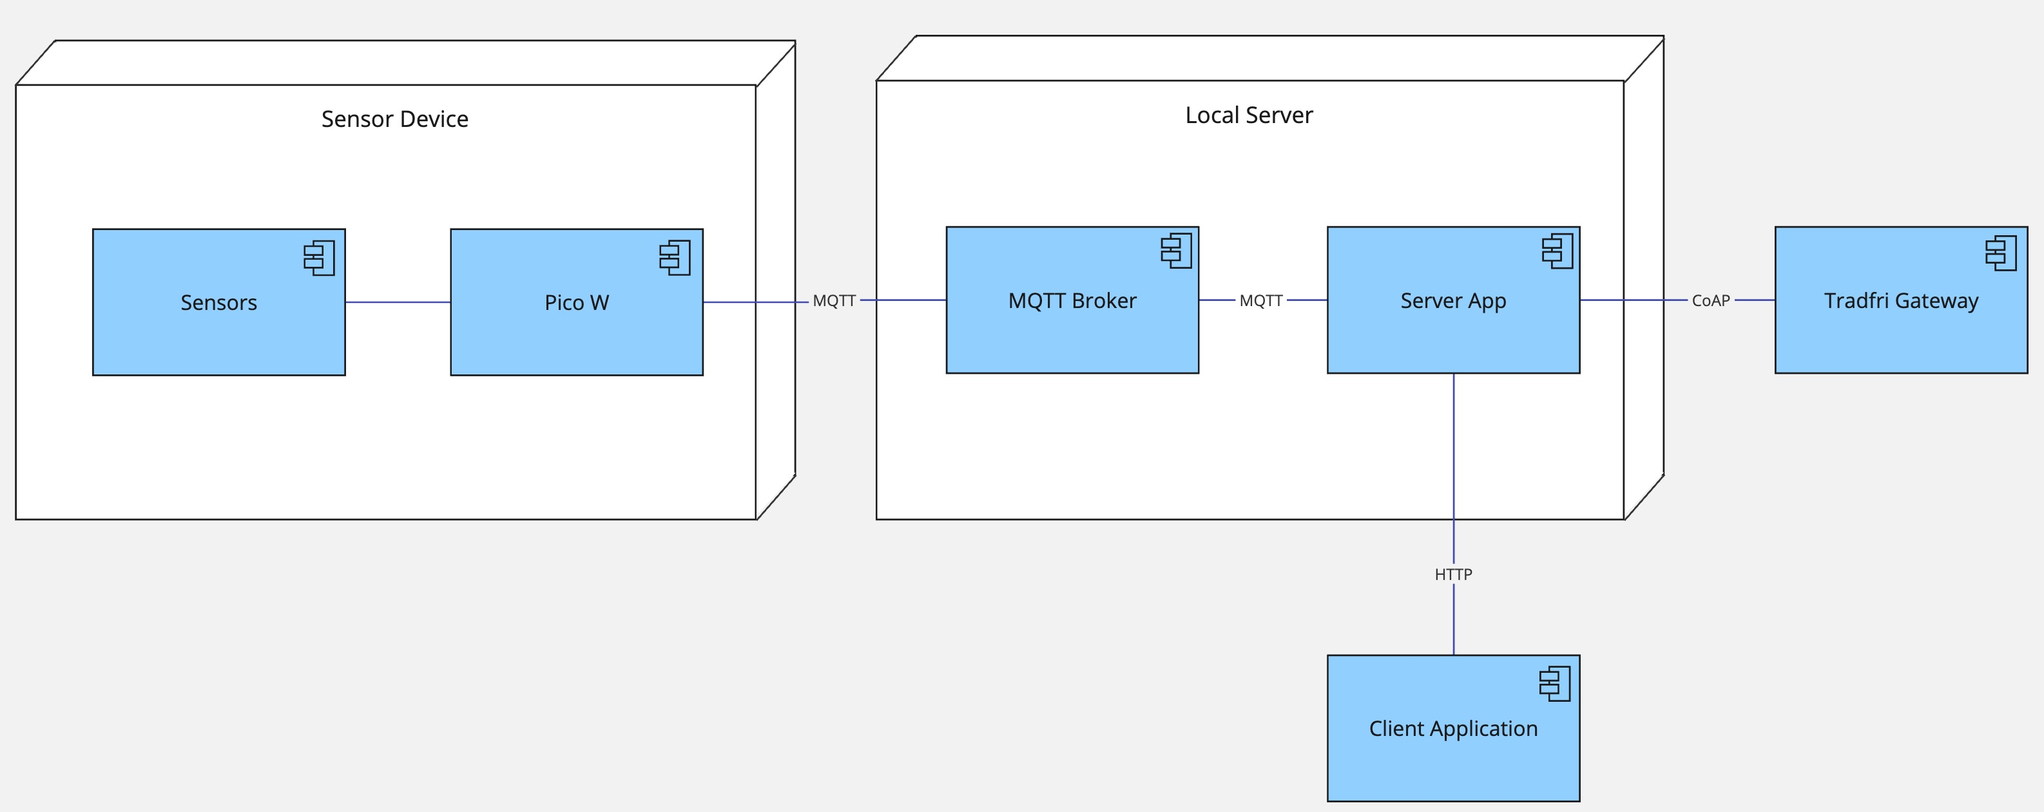
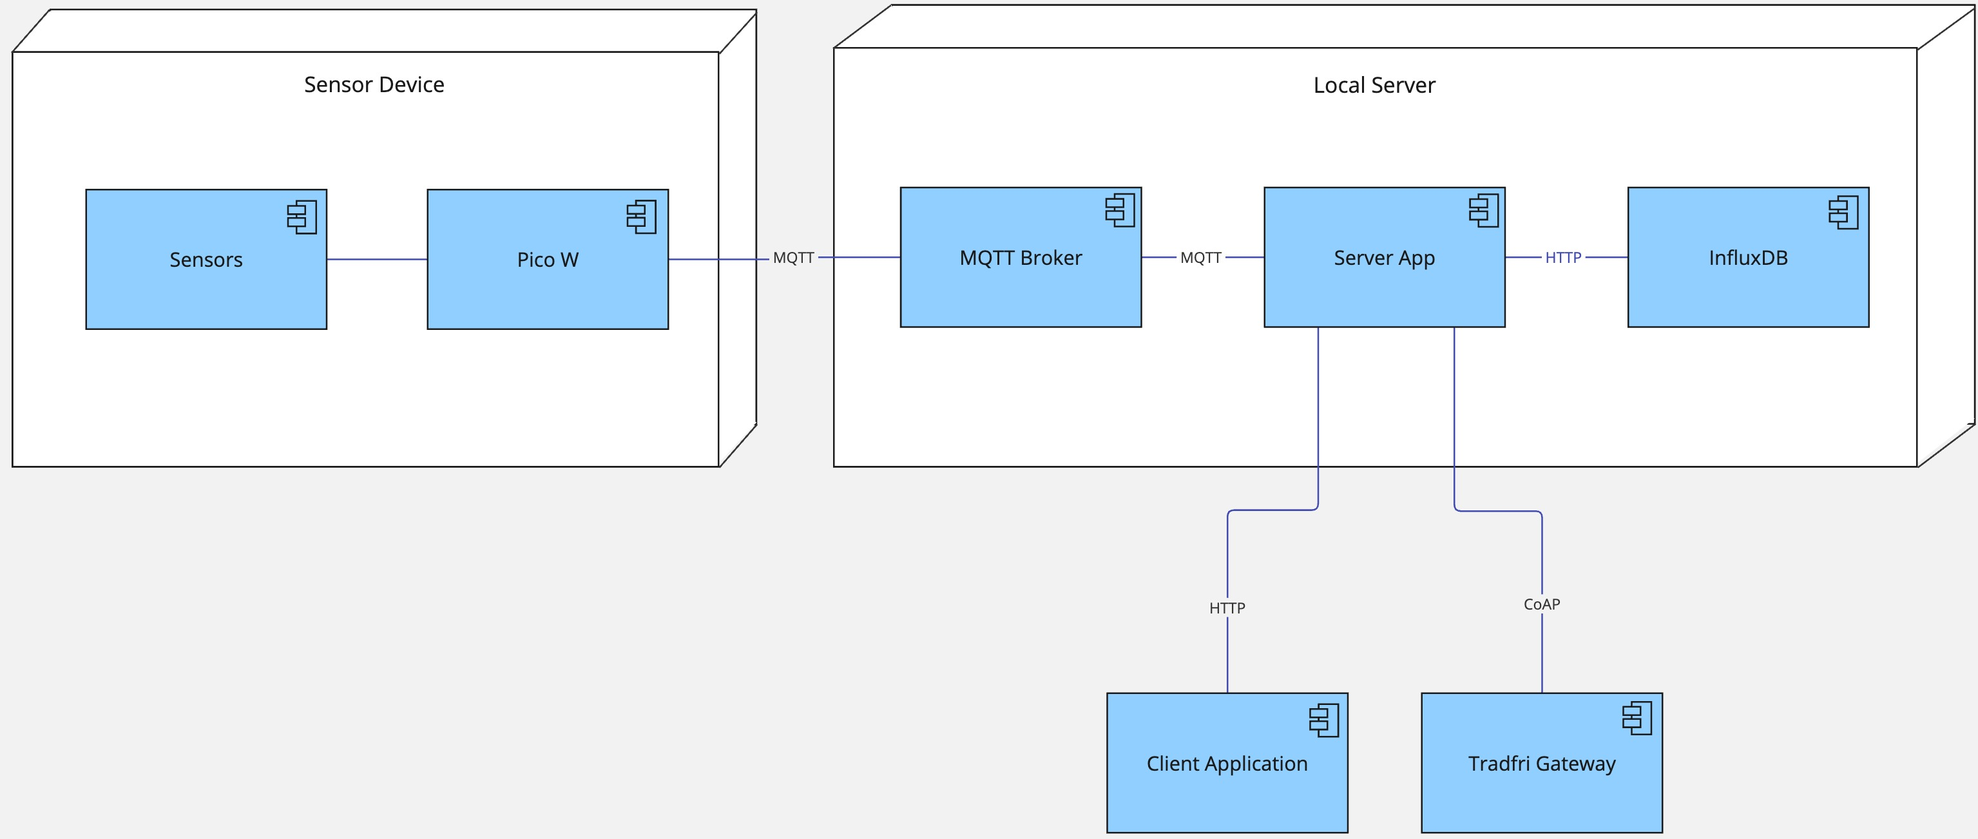
Unspecified

diff --git a/client/lib/screens/automation_edit_screen.dart b/client/lib/screens/automation_edit_screen.dart
@@ -155,31 +155,8 @@ class _AutomationEditScreenState extends State<AutomationEditScreen> {
   /* --------------------- EVENT LISTENERS -------------------- */
 
   Future<void> onSave(BuildContext context) async {
-    int sensorDeviceID;
-    double threshold;
-    int payload;
-
-    try {
-      sensorDeviceID = int.parse(sensorDeviceController.text);
-      threshold = double.parse(valueController.text);
-      payload = int.parse(payloadController.text);
-    } catch (e) {
-      errorToast("E-14: $e");
-      return;
-    }
-
-    Automation updatedAutomation = Automation(
-        id: widget.automation.id,
-        name: nameController.text,
-        sensor: sensorWrapper.value,
-        threshold: threshold,
-        operatorID: comparatorWrapper.value,
-        tradfriDeviceID: deviceWrapper.value,
-        actionID: actionWrapper.value,
-        actionPayload: payload,
-        sensorDeviceID: sensorDeviceID);
-
-    await widget.backend.updateAutomation(updatedAutomation);
+    updateAutomationDetails();
+    await widget.backend.updateAutomation(widget.automation);
     await widget.backend.loadAutomations();
 
     if (context.mounted) {
@@ -196,12 +173,6 @@ class _AutomationEditScreenState extends State<AutomationEditScreen> {
     }
   }
 
-  bool doSelectAllDevices() {
-    if (allDevicesSelected != null) return allDevicesSelected!;
-
-    return widget.automation.sensorDeviceID == -1;
-  }
-
   void onAllDevicesSelect(bool? selected) {
     String inputSensorDeviceID = sensorDeviceController.text;
     if (selected == true && int.tryParse(inputSensorDeviceID) != null) {
@@ -209,7 +180,39 @@ class _AutomationEditScreenState extends State<AutomationEditScreen> {
     }
 
     setState(() {
+      updateAutomationDetails();
       allDevicesSelected = selected;
     });
+  }
+
+  /* ------------------------ FUNCTIONS ----------------------- */
+
+  void updateAutomationDetails() {
+    int sensorDeviceID;
+    double threshold;
+    int payload;
+
+    try {
+      sensorDeviceID = int.parse(sensorDeviceController.text);
+      threshold = double.parse(valueController.text);
+      payload = int.parse(payloadController.text);
+    } catch (e) {
+      errorToast("E-14: $e");
+      return;
+    }
+
+    widget.automation.name = nameController.text;
+    widget.automation.sensor = sensorWrapper.value;
+    widget.automation.operatorID = comparatorWrapper.value;
+    widget.automation.threshold = threshold;
+    widget.automation.tradfriDeviceID = deviceWrapper.value;
+    widget.automation.actionID = actionWrapper.value;
+    widget.automation.actionPayload = payload;
+    widget.automation.sensorDeviceID = sensorDeviceID;
+  }
+
+  bool doSelectAllDevices() {
+    if (allDevicesSelected != null) return allDevicesSelected!;
+    return widget.automation.sensorDeviceID == -1;
   }
 }

diff --git a/README.md b/README.md
@@ -8,26 +8,23 @@ This tutorial will show you how to set up a Raspberry Pico W to provide more aut
 
 ![System Overview](res/img/IoT-diagram.jpg)
 
-As shown above, it consists of a Raspberry Pico W, a server running Python and a Tradfri gateway. The Pico W is used to control the Tradfri devices and to send data to the server. The server is used to manage the data and to communicate with the Tradfri gateway. This is designed to be a fun hobby project, which could also result in an actually useful end-product. I think it is suitable for beginners in the field, but be careful with the hardware. **I claim no responsibility for any damages made to anything, regardless of cause.**
+As shown above, it consists of one-to-many Raspberry Pico W's, a server and a Tradfri gateway. The Pico W is used to control the Tradfri devices and to send data to the server. The server is used to manage the data and to communicate with the Tradfri gateway. This is designed to be a fun hobby project, which could also result in an actually useful end-product. I think it is suitable for beginners in the field, but be careful with the hardware. **I claim no responsibility for any damages**
 
 **Time investment:**
 
-All the software is already written, so the time investment is mostly in setting up the hardware and the software. The hardware should not take long, as all it takes is to follow the wiring diagram. The time required to setup the software is depends a lot on experience and luck. With a solid amount of programing and installing experience and no issues, it wouldn't take more than 45 minutes with nothing pre-installed. If you are new to programing and installing, it could take up to 2 hours. If you run into issues, it could take even longer. In total I would estimate 1.5 - 3.5 hours to setup the entire project, depending on experience and luck.
+The hardware should not take long, as all it takes is to follow the wiring diagram. The time required to setup the software is depends a lot on experience and luck. I estimate that it would take 1 to 3 hours to complete everything.
 
 
 ## Objective
 
 **Project selection decision:**
 
-I have some previous experience with developing software integrating with the IKEA Tradfri product line. Those projects were aimed to 
-extend the existing functionallity of the smart home system and were highly tailored to suit my own needs. I learned that it was both
-fun and easy to work with the Tradfri system and as it fitted well with the requirements of the course, I decided to build a project
+I have some previous experience with developing software integrating with the IKEA Tradfri product line. Those projects were aimed to extend the existing functionallity of the smart home system and were highly tailored to suit my own needs. I learned that it was both fun and easy to work with the Tradfri system and as it fitted well with the requirements of the course, I decided to build a project
 that works as an extension to the Tradfri system.
 
 **Purpose:**
 
-This project aims to be a IoT project that other people can use or build upon. Being a popular product line, I can see others finding 
-benefit in this project, both in learning and also for the practical use of the end product.
+This project aims to be a IoT project that other people can use or build upon. Being a popular product line, I can see others finding benefit in this project, both in learning and also for the practical use of the end product.
 
 **Data Usage:**
 
@@ -72,26 +69,20 @@ WIFI_SSID="" # WiFi name
 WIFI_PASS="" # WiFi password
 BROKER_ADDRESS="" # IP of machine running the server
 BROKER_PORT=1883 # The port on which the MQTT broker is running, default is 1883
-DEVICE_ID=1 # The unique identifier for the Pico W, must be a positive integer.
-DISABLED_SENSORS="" # A comma separated list of sensors to disable. The available sensors are "motion", "temperature", "light" and "button". For instance, "motion,light" would disable the motion and light sensors.
+DEVICE_ID=1 # The unique identifier for the Pico W, MUST be a positive integer
+DISABLED_SENSORS="" # A comma separated list of sensors not in use. The available sensors are "motion", "temperature", "light" and "button". For instance, "motion,light" would disable the motion and light sensors.
 ```
 
 **Setting up the local server:**
 
 The server is used to coordinate the Pico W devices (in case there are multiple in your setup), to communicate with the Tradfri gateway and to manage the data. In my case, I used a Raspberry Pi 4 running Raspbian, but any Linux/Mac OS should be fine. Windows could work to, but has not been tested. You need to install Docker Engine, Docker CLI and Docker Compose. Luckily, you can install all of these at once by installing Docker Desktop. Instructions for installing Docker Desktop on any platform can be found [here](https://docs.docker.com/desktop/). 
 
-> The following commands will work for Linux and Mac OS
+> The following commands will only work for Linux and Mac OS
 
-To run the server, you need to download this repository to the server: 
-
-```bash
-git clone https://github.com/helagro/Applied-IoT.git
-```
-
-Then, you need to navigate to the `server` directory:
+To run the server, you need to download this repository to the server. Then, you need to navigate to the `server` directory:
 
 ```bash
-cd Applied-IoT/server
+cd FOLDER_YOU_DOWNLOADED_IT_TO/Applied-IoT/server
 ```
 
 Set the tradfri gateway code which can be found on the bottom of your device (this step only needs to be included to setup and when your network configuration changes):
@@ -115,7 +106,7 @@ The server should now be running on port 3000 of your device. You can access the
 
 
 **Electrics:**
-Due to the choice of components, this entire setup require no additional resistors. The light sensor has a seperate pin for reading, and the push button has built-in resistors. The DHT11, button and light sensor all perform fine when powered with 3.3V. The motion sensor requires 5V power, but you can draw that from the USB input using the VBUS pin. Without it, the signal becomes highly irregular and random. This is not ideal as this bypasses features of the Pico W, like voltage regulation, overvoltage protection and backfeeding protection. An example of backfeeding is if you instead of drawing power from the VBUS, you accidentally power it. **This can cause damage to the device that the Pico is connected to (for instance, your expensive computer 😳).** This is one part of the design which makes it unsuitable for production, but it is fine for a home project. Some other reasons are the innefficient wiring, lack of protection and that the button is not as easy to press as it should be.
+Due to the choice of components, this entire setup require no additional resistors. The light sensor has a seperate pin for reading, and the push button has built-in resistors. The DHT11, button and light sensor all perform fine when powered with 3.3V. The motion sensor requires 5V power, but you can draw that from the USB input using the VBUS pin. Without it, the signal becomes highly irregular and random. This is not ideal as this bypasses features of the Pico W, like voltage regulation, overvoltage protection and backfeeding protection. An example of backfeeding is if you instead of drawing power from the VBUS, you accidentally power it. **This can cause damage to the device that the Pico is connected to (for instance, your expensive computer).** This is one part of the design which makes it unsuitable for production, but it is fine for a home project. Some other reasons are the innefficient wiring, lack of protection and that the button is not as easy to press as it should be.
 
 **Production:**
 For a production setup, an external power module supply should be used, together more optimised wiring, pin usage and preferably a case of sorts. A case could quite easily be 3D printed, improving both looks, dust protection, ease of directing sensors and durability. 
@@ -135,7 +126,7 @@ For visualisation, it uses a Flutter client application. In the repository, ther
 
 **Platform choices:**
 
-There were a few major factors influencing the choice of storage and visualisation solution. The choice was made rather late in the application's development, by then there already was on functioning client application. It made sense to use that for visualisation. The project already required a server for running the backend code, meaning installing a database on it aswell would not add much extra complexity. The backend code already had code for recieving and interpreting sensor data sent from the Pico W, so it made sense to insert the data storage at the backend, rather than having a seperate module listening for mqtt messages. 
+There were a few major factors influencing the choice of storage and visualisation solution. The choice was made rather late in the application's development, by then there already was on functioning client application. It made sense to use that for visualisation. The project already required a server for running the backend code, meaning installing a database on it as well would not add much extra complexity. The backend code already had code for recieving and interpreting sensor data sent from the Pico W, so it made sense to insert the data storage at the backend, rather than having a seperate module listening for mqtt messages. 
 
 There were very few constraints on the project, performance would most likely not be an issue given that one server should easily be able to handle the load generated by quite a few Pico W's. Reliability was not a major concern either. The system is not crutial and it is very simple to restart. Therefore, ease of development and setup for the user could take more of a priority.
 
@@ -145,9 +136,9 @@ These factors all leaned towards installing a local database and using the Flutt
 
 **Scaling:**
 
-As touched upon earlier, scaling this project should be very easy and the current configuration should be able to handle most realistic usage and traffic. If the system were to be scaled, I still maintain that the current visualisation techniques (the Flutter library and the InfluxDB database) are the best choice. Having a local database is ideal, allowing for very high reponsiveness, and the lack of some of the overhead present with some of the above mentioned platforms is also good for performance. The Flutter library is also more than capable of graphing a large amount of data. The only changes that would be needed would be some slight alterations to the system architecture.
+As touched upon earlier, scaling this project should be very easy and the current configuration should be able to handle most realistic usage and traffic. Having a local database is ideal, allowing for very high reponsiveness, and the lack of some of the overhead present with some of the above mentioned platforms is also good for performance. The Flutter library is also more than capable of graphing a large amount of data. 
 
-To allow for distributing the load to multiple servers, the broker, python server and database should be further separated. The client applications should connect to the InfluxDB directly, instead of having all data relayed through the Python server. The database should also be more directly connected to the MQTT broker, as it has to be separated from the Python server. This new architecture should be able to suit even intense industrial usage, given that the servers are powerful enough. For that usage however, security should be of way more concern, which is not at all considered at them moment. Given that the system is not connected to the internet, no cloud scaling will ever be needed.
+To allow for distributing the load to multiple servers, the broker, python server and database should be further separated. The client applications should connect to the InfluxDB directly, instead of having all data relayed through the Python server. The database should also be more directly connected to the MQTT broker, as it has to be separated from the Python server. Given that the system is not connected to the internet, no cloud scaling will ever be needed.
 
 One alternate scaling solution could be to implement a full local TIG-stack. This means adding the programs Telegraf and Grafana to the system. Telegraf would be used to collect the data from the MQTT broker and send it to the InfluxDB database. Grafana would be used to visualise the data. This would allow for more advanced visualisations and more advanced data collection. This could be a more optimised setup as more under the hood optimisations have been made for these specialised programs. This could allow the system to process and visualise larger and more complex sets of data.
 
@@ -179,7 +170,7 @@ while True:
     lightCounter += 1
 ```
 
-The following code snippet shows one of the polling functions, `pollMotion`. It is responsible for polling the motion sensor and sending the data to the server if a new value is registered. The `prevMotion` variable is used to keep track of the previous value of the sensor, so that the server is not spammed with messages if the sensor value does not change. The `sensors.doesDetectMotion()` function is the function that actually reads the binary value of the associated pin. The data is published to the MQTT broker, under the topic `motion/{deviceID}`. The `deviceID` is a unique identifier for the Pico W, which is used for triggering automations based on values from specific sensor-devices.
+The following code snippet shows one of the polling functions, `pollMotion`. It is responsible for polling the motion sensor and sending the data to the server if a new value is registered. The `prevMotion` variable is used to keep track of the previous value of the sensor, so that the server is not spammed with messages if the sensor value does not change. The `sensors.doesDetectMotion()` function is the function that actually reads the binary value of the associated pin. The data is published to the MQTT broker, under the topic `motion/<deviceID>`.
 
 ```python
 def pollMotion() -> None:
@@ -218,9 +209,9 @@ WiFi is used as the main wireless protocol for the system. The Pico W uses it to
 
 **Transport protocols:**
 
-MQTT is used as the transport protocol between the Pico W and the server. The server then uses the [pytradfri](https://github.com/home-assistant-libs/pytradfri) library to communicate with the Tradfri gateway, which uses the CoAP protocol. The server also features a REST API to communicate with the frontend over HTTP. The server also hosts a web version of the client application, also served over HTTP.
+MQTT is used as the transport protocol between the Pico W and the server. The server then uses the [pytradfri](https://github.com/home-assistant-libs/pytradfri) library to communicate with the Tradfri gateway using the CoAP protocol. The server also features a REST API to communicate with the frontend over HTTP. The server also hosts a web version of the client application, also served over HTTP.
 
-**Design choices:**
+**Wireless protocols:**
 
 There was not a lot of constraints guiding which wireless protocol was to be used. All devices for the project are meant to be inside the users home, meaning that range was not an issue. The user would likely power the Pico W from the outlet directly, so power consumption was not a great concern either. Despite network speed or latency not being a high priority, WiFi still seemed like a great choice. The Pico W has built in WiFi capabilities, meaning that no extra antenna or similar equipment would be neccessary, reducing cost. Bluetooth could still have been an alternative but the range could have been an issue. Bluetooth would have required the server and Pico W to be close to eachother, but with WiFi, they could be far apart, as long as the WiFi has good enough range. This could be achieved with a Mesh network, for instance. Both Bluetooth Low Energy and LoRa can be configured to be very power efficient, but within a home setting, the power consumption of WiFi is not a big issue.
 
@@ -240,25 +231,25 @@ Not too much thought was put into choosing which database to use, as the require
 
 **UI walk-through**
 
-> img
+![Settings page](res/img/settings.png)
 
-The data screen
+The settings screen is used for specifying the url of the server. It should be in the format http://YOUR_SERVER_IP:3000. You need to save the settings using the bottom right button.
 
-> img
-
-The settings screen is used for specifying the url of the server. It should be in the format http://YOUR_SERVER_IP:3000
-
-> img
+![Automations page](res/img/automations.png)
 
 The automations screen displays all created automations. Each item is clickable, and will take you to a page for editing them. There is also a plus button in the bottom right corner for creating a new automation.
 
-> img
+![Automation editing page](res/img/automation-edit.png)
 
 The automations editing screen is used to create or edit an automation. It has a number of fields for specifing the details of the automation. Most of them should be self-explanatory. The `Value` field is used to specify the value that the sensor value will be compared against. The input type is a decimal number. The `Button` and `Motion` sensors will produce a value of `1` when they are triggered and `0` when they are not.
 
-There are three available actions to invoke on the chosen Tradfri device. The `SET_STATE` action is used to turn the device on or off. The device will turn on if the `Payload` is `1` and off if the `Payload` is `0`. The `TEMPORARY_ON` action is used to turn the device on for the amount of seconds entered in the `Payload` field. After that, it will turn off. Could be useful if you want a light to be on when motion has been detected the last five minutes, etc. Keep in mind that only changes of values will be recorded, meaning that to accomplish this function, two automations are needed. One that turns on the light when motion is detected, and one that turns it temporarily on when no motion is detected. The `TOGGLE` action is used to toggle the state of the device. If the device is on, it will be turned off, and vice versa. The `Payload` value is ignored for this action.
+There are three available actions to invoke on the chosen Tradfri device. The `SET_STATE` action is used to turn the device on or off (`Payload` `1` or `0`). The `TEMPORARY_ON` action is used to turn the device on for the amount of seconds entered in the `Payload` field. After that, it will turn off. Could be useful if you want a light to be on when motion has been detected the last five minutes, etc. Keep in mind that only changes of values will be recorded, meaning that to accomplish this function, two automations are needed. One that turns on the light when motion is detected, and one that turns it temporarily on for five minutes when no motion is detected. The `TOGGLE` action is used to toggle the state of the device. If the device is on, it will be turned off, and vice versa. The `Payload` value is ignored for this action.
 
-The `Sensor Device` field is used to specify which sensor device the automation should apply to. The value should match the value entered into the `env.py` for the desired Pico W. 
+The `Sensor Device` field is used to specify which sensor device the automation should apply to. The value should match the value entered into the `env.py` for the desired Pico W.
+
+**Triggers of the data:**
+
+
 
 - [ ] *Automation/triggers of the data.
 
@@ -267,7 +258,7 @@ The `Sensor Device` field is used to specify which sensor device the automation 
 
 **Reflections:**
 
-I think the project went well overall. I completed the MVP very early due to anticlipated future time constraints, which helped me in chosing a suitable scope for the project. The main downside of this was low initial code quality, causing time expensive bugs and refactoring. I do maintain that in my particular circumstance, it was the right strategy, even though it caused some issues. The main improvement potential I noticed was to be more careful about data types in weakly typed languages. Python won't complain during runtime if a variable stores a value different to the one I described in the type hint. This caused some bugs and issues which took longer than it should have to solve. I ended up checking for data type in if-statements, scattered across the code. Ideally, I should have done this earlier and more delieratebly.
+I think the project went well overall. I completed the MVP very early due to anticipated future time constraints. The main downside of this was low initial code quality, causing time expensive bugs and refactoring. The main improvement potential I noticed was to be more careful about data types in weakly typed languages. Python won't complain during runtime if a variable stores a value different to the one I described in the type hint. This caused some bugs and issues which took longer than it should have to solve. I ended up checking for data type in if-statements, scattered across the code. Ideally, I should have done this earlier and more delieratebly.
 
 - [ ] Show final results of the project - Pictures
 - [ ] *Video presentation
